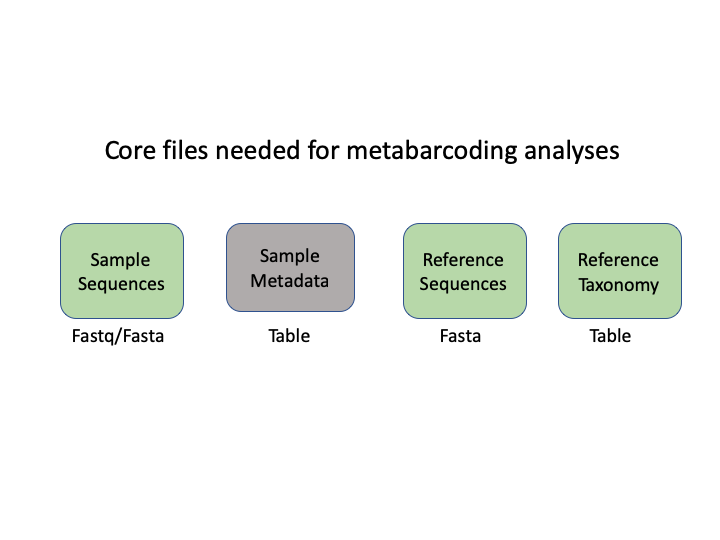
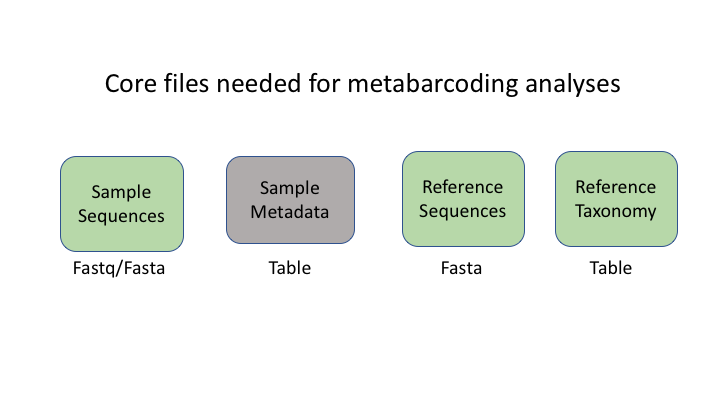
changed back to 16:9

diff --git a/Metabarcoding_Basics.md b/Metabarcoding_Basics.md
@@ -19,11 +19,10 @@ The first two file types have to do with your sample data: your sequence data, a
 
 ![alt text](images/Slide01.png)
 
-The next two information types come after clustering the sample sequences. The generail Qiime2 terminology for these are the *representative sequences* and the *feature table*. The representative sequences (rep seqs) are also known as *Operational Taxonomic Units* (OTUs) or *Amplicon Sequence Variants* (ASVs), depending on how they are produced (e.g. clustering or denoising). The last type is a table that specifies how many sequences of each rep seq are found in each sample.
+The next two information types come after clustering the sample sequences. The general Qiime2 terminology for these are the *representative sequences* and the *feature table*. The representative sequences (rep seqs) are also known as *Operational Taxonomic Units* (OTUs) or *Amplicon Sequence Variants* (ASVs), depending on how they are produced (e.g. clustering or denoising). The last type is a table that specifies how many sequences of each rep seq are found in each sample.
 
  ![alt text](images/Slide02.png)
 
-
-
 An additional important type is the product of taxonomic assignment of the representative sequences. 
 
+![alt text](images/Slide03.png)
